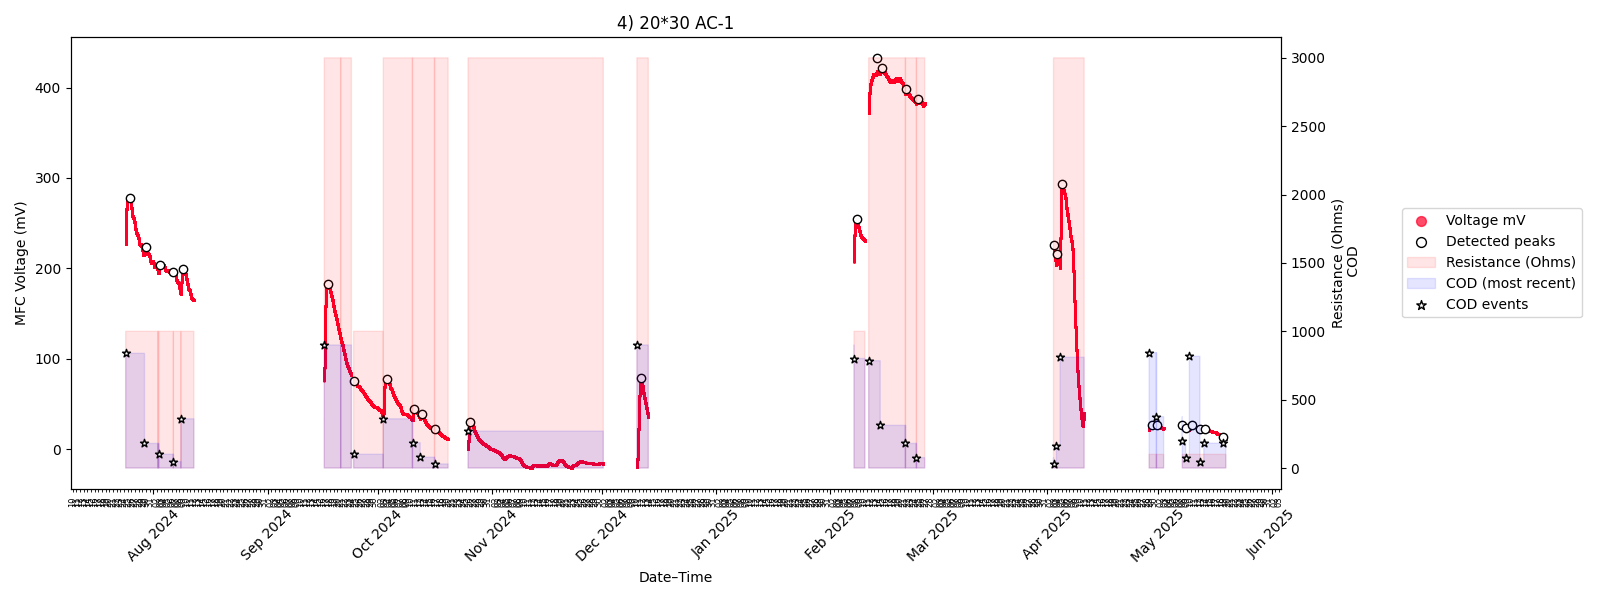
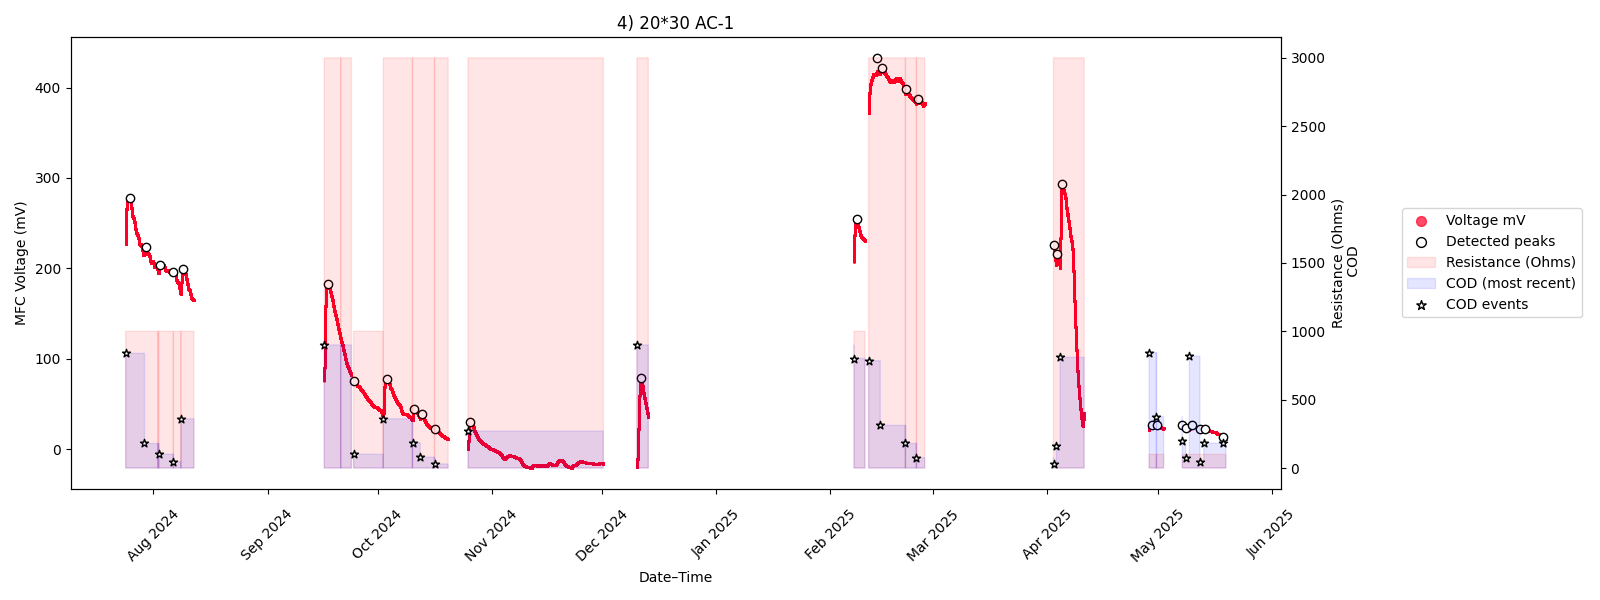
refactored code to contextualise the MFC data extracted for each COD window as an engineered feature set for predictive modelling

Changed region(s): [[0.0312, 0.81, 0.8125, 0.87]]

diff --git a/analyse_data.py b/analyse_data.py
@@ -29,13 +29,17 @@ def main():
 
     # Dictionary to store computed/extracted parameters
     mfc_analysis = {
-        "Energy J": {},
-        "Resistance kOhms" : {},
         "COD" : {},
+        "Resistance kOhms" : {},
         "Vpeak mV": {}, 
         "Ppeak W": {}, 
-        "Spike delay (days)" : {},
+        "Rise time (days)" : {},
+        "Decay slope (V per s)" : {},
+        "Energy J": {},
     }
+
+    # Dates to index mfc analysis dictionary with 
+    cod_events_dates = []
 
     # Iterate over MFCs 
     for d in all_data_separate:
@@ -43,44 +47,33 @@ def main():
         print(d)
         data = all_data_separate[d]
 
-        # ------------------------------
-        # -------- Extract COD ---------
-        # ------------------------------
-        
+        # Add column showing MFC power output
+        data['Power W'] = (data["Voltage mV"]/1000)**2 / (data["Resistance kOhms"]*1000)
+
+        for key in mfc_analysis:
+            mfc_analysis[key][d] = []
+
+        # ------------------------------------------------------
+        # -------- Extract features for each COD event ---------
+        # ------------------------------------------------------
+
+        # -------- COD events ---------
         # Get date-time index of COD events
         cod_events_idx = data.index[data["COD_event"] == 1]
+
+        if not cod_events_dates:
+            cod_events_dates = [d.isoformat() for d in cod_events_idx.date.tolist()]
+            
 
         # Store COD values
         mfc_analysis["COD"][d] = list(data.loc[cod_events_idx, "COD"])
 
-        # -------------------------------------
-        # -------- Extract Resistance ---------
-        # -------------------------------------
-        
+        # -------- Resistance --------
         # Store Resistance values
         mfc_analysis["Resistance kOhms"][d] = list(data.loc[cod_events_idx, "Resistance kOhms"])
 
-        # --------------------------------------------------------------
-        # -------- Compute values for each event in COD window ---------
-        # --------------------------------------------------------------
-
-        # Arrays to store values computed for each COD event
+        # Arrays to store index of voltage peaks for each COD event
         voltage_peaks_idx = []
-        power_peaks_idx = []
-        voltage_peaks = []
-        power_peaks = []
-        energy = []
-
-        # print(data["Voltage mV"][:10])
-
-        # Compute mfc power output time series
-        data['Power W'] = (data["Voltage mV"]/1000)**2 / (data["Resistance kOhms"]*1000)
-
-        # print(data['Power W'][:10])
-
-        # -------------------------------------------------
-        # -------- Compute peak power and voltage ---------
-        # -------------------------------------------------
 
         # Get window of data following each COD event
         for i in range(len(cod_events_idx)):
@@ -93,34 +86,65 @@ def main():
                 mask = (data.index >= start) 
             window = data.loc[mask]
 
-            # Find peak voltage and power values in this window
-            for parameter, idxs, vals in zip(
-                                            ['Voltage mV', 'Power W'], 
-                                            [voltage_peaks_idx, power_peaks_idx],
-                                            [voltage_peaks, power_peaks]
-                                            ):
-                # Get the window of data for the selected parameter (voltage or power)
-                param = window[parameter]
+            # Get the window of voltage data
+            V_window = window['Voltage mV']
 
-                # If there is data in the window, compute the max value
-                if param.notna().any():
-                    peak_idx = param.idxmax()
-                    peak_val = param.loc[peak_idx]
-                else:
-                    peak_idx = None
-                    peak_val = None
-                    
-    #             # print('Peak '+ parameter + ':', peak_idx, peak_val)
+            # If there is data in the window
+            if V_window.notna().any():
 
-                # Store index of the peak
-                idxs.append(peak_idx)
-                vals.append(peak_val)
+                # -------- Index of the max voltage value --------
+                peak_idx = V_window.idxmax()
+ 
+                # -------- Rise time (time from COD event to voltage peak) --------
+                rise_time = (peak_idx - start).total_seconds() / (60 * 60 * 24)
 
-            # -------------------------------------------
-            # -------- Compute Energy generated ---------
-            # -------------------------------------------
+                # -------- Max voltage value --------
+                V_peak = V_window.loc[peak_idx]
 
-            # Get the time axis of the window 
+                # -------- Power at the max voltage value --------
+                P_window = window['Power W']
+                P_peak = P_window.loc[peak_idx]
+
+                # -------- Decay slope --------
+                # Define end of window
+                window_end = window.index[-1]
+
+                # Get closest index 1 day after peak
+                # one_day_after_peak = peak_idx + pd.Timedelta(days=1)
+                one_hour_after_peak = peak_idx + pd.Timedelta(hours=1)
+                one_hour_after_peak = window.index.asof(one_hour_after_peak)
+
+                # Take whichever comes first as end of slope period
+                t_end = min(one_hour_after_peak, window_end)
+                # print(t_end)
+
+                # Compute time difference in seconds
+                dt = (t_end - peak_idx).total_seconds()
+                # print(dt)
+
+                # Compute the slope of voltage decay w.r.t time 
+                decay_slope = (V_window.loc[t_end] - V_peak) / dt
+                # print(V_window.loc[t_end])
+                # print(decay_slope)
+                # print()
+
+            else:
+                peak_idx = None
+                V_peak = None
+                P_peak = None
+                rise_time = np.nan
+                decay_slope = np.nan
+
+            voltage_peaks_idx.append(peak_idx)
+            mfc_analysis["Vpeak mV"][d].append(V_peak)
+            mfc_analysis["Ppeak W"][d].append(P_peak)
+            mfc_analysis["Rise time (days)"][d].append(round(rise_time, 6))
+            mfc_analysis["Decay slope (V per s)"][d].append(round(decay_slope, 6))
+
+            
+            # -------- Energy generated per COD event ---------
+
+            # Time axis of the window is every value minus the start value, expressed in seconds
             t = (window.index - window.index[0]).total_seconds()
 
             # Get the power values in the window
@@ -128,55 +152,24 @@ def main():
 
             # Replace any nan power values with 0
             power = np.nan_to_num(power, nan=0.0)
-
-            # print(t[:10])
-            # print(power[:10])
             
             # Compute the total energy as the time integral of power
-            energy.append(np.trapezoid(power, t))
-
-        # --------------------------------------
-        # -------- Store energy values ---------
-        # --------------------------------------
-        mfc_analysis["Energy J"][d] = energy
+            mfc_analysis["Energy J"][d].append(np.trapezoid(power, t))
 
         # -----------------------------------------------
-        # -------- Store and plot voltage peaks ---------
+        # -------- Plot voltage peaks ---------
         # -----------------------------------------------
-
-        mfc_analysis["Vpeak mV"][d] = voltage_peaks
 
         # Plot voltage data, showing peaks
         plot_data(data, 
                   ["Voltage mV"], 
                   title=d, 
                   voltage_peaks=voltage_peaks_idx,
-                  show_days=True,
+                  show_days=False,
                   show_plot=False
                   )
 
-        # --------------------------------------
-        # -------- Store power peaks -----------
-        # --------------------------------------
-
-        mfc_analysis["Ppeak W"][d] = power_peaks
-        
-        # -----------------------------------------------------------------
-        # -------- Store delay between COD event and voltage peak ---------
-        # -----------------------------------------------------------------
-
-        # Compute and store delay between COD event and voltage spike
-        spike_delay_days = []
-        for c, v in zip(cod_events_idx, voltage_peaks_idx):
-            if v:
-                delay = (v - c).total_seconds() / (60 * 60 * 24)
-            else:
-                delay = np.nan
-            spike_delay_days.append(delay)
-        # Round to 6 d.p.
-        spike_delay_days = [round(i, 6) for i in spike_delay_days]
-        mfc_analysis["Spike delay (days)"][d] = spike_delay_days
-
+      
     # ---------------------------------------------------------------
     # -------- Statistical analysis of MFCs grouped by type ---------
     # ---------------------------------------------------------------
@@ -191,10 +184,14 @@ def main():
                 {k: pd.Series(v) for k, v in mfc_analysis[sheet].items()}
                 )
             
-            # Write to excel file
-            # mfc_analysis[sheet].to_excel(writer, sheet_name=sheet, index=False)
-            mfc_analysis[sheet].to_excel(writer, sheet_name=sheet)
+            # Set custom index
+            mfc_analysis[sheet].index = cod_events_dates
 
+            # Name the index column
+            mfc_analysis[sheet].index.name = "Date"
+            
+            # Write to excel file
+            mfc_analysis[sheet].to_excel(writer, sheet_name=sheet)
 
     # Regex patterns for each MFC type to filter data
     patterns = {
@@ -205,9 +202,9 @@ def main():
     }
 
     # ---------------------------------------------------------------
-    # -------- Min, max, mean spike delay and total energy for each COD event ---------
+    # -------- Min, max, mean rise time and total energy for each COD event ---------
     # ---------------------------------------------------------------
-    for parameter in ["Spike delay (days)", "Energy J"]:
+    for parameter in ["Rise time (days)", "Energy J"]:
     
         summary = {}
 
@@ -245,9 +242,9 @@ def main():
         plt.xlabel('COD event index')
         plt.ylabel(parameter)
         plt.savefig(f"figs/{parameter}.png")
-        plt.show()
+        # plt.show()
 
-        print(summary)
+        # print(summary)
 
     
     # ---------------------------------------------------------------
@@ -350,7 +347,7 @@ def main():
             plt.subplots_adjust(right=0.75)
             plt.legend(loc='upper left', bbox_to_anchor=(1, 1))
             plt.savefig(f"figs/{parameter} vs COD - {mfc_type}.png")
-            plt.show()
+            # plt.show()
 
 if __name__ == "__main__":
     main()
